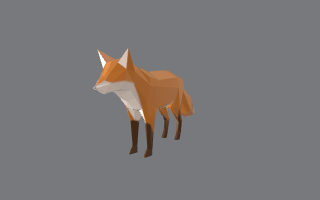
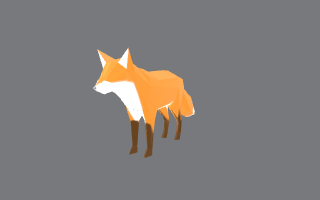
feat(shader): update built-in defaults and order

Changed region(s): [[0.2812, 0.24, 0.625, 0.78]]

diff --git a/src/domain/builtins.ts b/src/domain/builtins.ts
@@ -40,8 +40,8 @@ const builtins: ShaderDefinition[] = [
     parameters: [
       { id: 'color', type: 'color', uniformName: 'uColor', label: 'Color', defaultValue: '#7aa2f7' },
       { id: 'ambient-color', type: 'color', uniformName: 'uAmbientColor', label: 'Ambient color', defaultValue: '#ffffff' },
-      { id: 'ambient-intensity', type: 'float', uniformName: 'uAmbientIntensity', label: 'Ambient intensity', min: 0, max: 2, step: 0.01, defaultValue: 0 },
-    ], materialInputProfile: 'gltf-surface', parameterValues: { color: '#7aa2f7', 'ambient-color': '#ffffff', 'ambient-intensity': 0 }, schemaVersion: 2,
+      { id: 'ambient-intensity', type: 'float', uniformName: 'uAmbientIntensity', label: 'Ambient intensity', min: 0, max: 2, step: 0.01, defaultValue: 1 },
+    ], materialInputProfile: 'gltf-surface', parameterValues: { color: '#7aa2f7', 'ambient-color': '#ffffff', 'ambient-intensity': 1 }, schemaVersion: 2,
   },
   {
     id: 'builtin-uv-grid', name: 'UV Grid', origin: 'builtin', portrait: { kind: 'bundled', url: uvGridPortrait },
@@ -80,8 +80,8 @@ const builtins: ShaderDefinition[] = [
       { id: 'shadow-color', type: 'color', uniformName: 'uShadowColor', label: 'Shadow tint', defaultValue: '#18223b' },
       { id: 'light-color', type: 'color', uniformName: 'uLightColor', label: 'Light tint', defaultValue: '#f7c75f' },
       { id: 'ambient-color', type: 'color', uniformName: 'uAmbientColor', label: 'Ambient color', defaultValue: '#ffffff' },
-      { id: 'ambient-intensity', type: 'float', uniformName: 'uAmbientIntensity', label: 'Ambient intensity', min: 0, max: 2, step: 0.01, defaultValue: 0 },
-    ], materialInputProfile: 'gltf-surface', parameterValues: { bands: 3, 'shadow-color': '#18223b', 'light-color': '#f7c75f', 'ambient-color': '#ffffff', 'ambient-intensity': 0 }, schemaVersion: 2,
+      { id: 'ambient-intensity', type: 'float', uniformName: 'uAmbientIntensity', label: 'Ambient intensity', min: 0, max: 2, step: 0.01, defaultValue: 1 },
+    ], materialInputProfile: 'gltf-surface', parameterValues: { bands: 3, 'shadow-color': '#18223b', 'light-color': '#f7c75f', 'ambient-color': '#ffffff', 'ambient-intensity': 1 }, schemaVersion: 2,
   },
   {
     id: 'builtin-pbr', name: 'PBR', origin: 'builtin', portrait: { kind: 'bundled', url: pbrPortrait },
@@ -96,7 +96,7 @@ const builtins: ShaderDefinition[] = [
       { id: 'use-normal-map', type: 'boolean', uniformName: 'uUseNormalMap', label: 'Use normal map', defaultValue: true },
       { id: 'environment-contribution', type: 'float', uniformName: 'uEnvironmentContribution', label: 'Environment contribution', min: 0, max: 4, step: 0.01, defaultValue: 1 },
       { id: 'ambient-color', type: 'color', uniformName: 'uAmbientColor', label: 'Ambient color', defaultValue: '#ffffff' },
-      { id: 'ambient-intensity', type: 'float', uniformName: 'uAmbientIntensity', label: 'Ambient intensity', min: 0, max: 2, step: 0.01, defaultValue: 0 },
+      { id: 'ambient-intensity', type: 'float', uniformName: 'uAmbientIntensity', label: 'Ambient intensity', min: 0, max: 2, step: 0.01, defaultValue: 1 },
     ],
     materialInputProfile: 'gltf-pbr',
     parameterValues: {
@@ -109,7 +109,7 @@ const builtins: ShaderDefinition[] = [
       'use-normal-map': true,
       'environment-contribution': 1,
       'ambient-color': '#ffffff',
-      'ambient-intensity': 0,
+      'ambient-intensity': 1,
     },
     schemaVersion: 2,
   },
@@ -139,4 +139,21 @@ const builtins: ShaderDefinition[] = [
   },
 ]
 
-export const BUILTIN_SHADERS: readonly ShaderDefinition[] = Object.freeze(builtins.map(freezeBuiltin))
+const BUILTIN_SHADER_ORDER = [
+  'builtin-pbr',
+  'builtin-toon',
+  'builtin-normal',
+  'builtin-unlit-color',
+  'builtin-uv-grid',
+  'builtin-fresnel',
+  'builtin-procedural-matcap',
+  'builtin-rim-light',
+] as const
+
+const builtinsById = new Map(builtins.map((shader) => [shader.id, shader]))
+
+export const BUILTIN_SHADERS: readonly ShaderDefinition[] = Object.freeze(BUILTIN_SHADER_ORDER.map((id) => {
+  const shader = builtinsById.get(id)
+  if (shader === undefined) throw new Error(`Missing built-in shader: ${id}`)
+  return freezeBuiltin(shader)
+}))

diff --git a/src/ui/Workspace.integration.test.tsx b/src/ui/Workspace.integration.test.tsx
@@ -258,7 +258,8 @@ describe('shader workspace acceptance', () => {
     const firstRender = renderWorkspace({ repository, viewer, urls: exportUrls, download })
     await waitForBuiltinControls()
 
-    expect(within(libraryPanel()).getByRole('button', { name: 'Normal' })).toHaveAttribute('aria-current', 'true')
+    expect(within(libraryPanel()).getByRole('button', { name: 'PBR' })).toHaveAttribute('aria-current', 'true')
+    await user.click(within(libraryPanel()).getByRole('button', { name: 'Normal' }))
     await user.click(within(libraryPanel()).getByRole('button', { name: 'Duplicate shader' }))
     const localCard = await within(libraryPanel()).findByRole('button', { name: 'Normal copy' })
     expect(localCard).toHaveAttribute('aria-current', 'true')
@@ -467,7 +468,7 @@ describe('shader workspace acceptance', () => {
     renderWorkspace({ repository, viewer })
     await waitForBuiltinControls()
     await user.click(within(libraryPanel()).getByRole('button', { name: 'Duplicate shader' }))
-    await within(libraryPanel()).findByRole('button', { name: 'Normal copy' })
+    await within(libraryPanel()).findByRole('button', { name: 'PBR copy' })
     await waitFor(() => expect(viewer.compileShader).toHaveBeenLastCalledWith(expect.objectContaining({ id: 'local-1' })))
     await waitForValidCompile()
 
@@ -488,7 +489,7 @@ describe('shader workspace acceptance', () => {
     await user.click(screen.getByRole('button', { name: 'Dismiss workspace notices' }))
     repository.failSave = false
     await user.click(within(editorPanel()).getByRole('button', { name: 'Save shader' }))
-    expect(await screen.findByText('Saved Normal copy retry')).toBeVisible()
+    expect(await screen.findByText('Saved PBR copy retry')).toBeVisible()
     await user.click(screen.getByRole('button', { name: 'Dismiss workspace notices' }))
 
     viewer.failModel = true
@@ -509,7 +510,7 @@ describe('shader workspace acceptance', () => {
     await user.click(screen.getByRole('button', { name: 'Dismiss workspace notices' }))
     viewer.failCapture = false
     await user.click(within(editorPanel()).getByRole('button', { name: 'Capture portrait' }))
-    expect(await screen.findByText('Captured portrait for Normal copy retry')).toBeVisible()
+    expect(await screen.findByText('Captured portrait for PBR copy retry')).toBeVisible()
   }, 10_000)
 
   it('updates built-in controls without compilation and preserves current Toon and PBR values when duplicated', async () => {
@@ -679,12 +680,12 @@ describe('shader workspace acceptance', () => {
 
     await user.click(library)
     await user.click(within(screen.getByRole('tabpanel', { name: 'Library' })).getByRole('button', { name: 'Duplicate shader' }))
-    await screen.findByRole('button', { name: 'Normal copy' })
+    await screen.findByRole('button', { name: 'PBR copy' })
     const deleteButton = within(screen.getByRole('tabpanel', { name: 'Library' })).getByRole('button', { name: 'Delete shader' })
     await user.click(deleteButton)
 
     const workspace = container.querySelector('.workspace-root')
-    const dialog = screen.getByRole('alertdialog', { name: 'Delete Normal copy?' })
+    const dialog = screen.getByRole('alertdialog', { name: 'Delete PBR copy?' })
     expect(workspace).toHaveProperty('inert', true)
     expect(workspace).toHaveAttribute('aria-hidden', 'true')
     expect(workspace).not.toContainElement(dialog)

diff --git a/src/domain/builtins.test.ts b/src/domain/builtins.test.ts
@@ -20,6 +20,19 @@ describe('BUILTIN_ENVIRONMENTS', () => {
 })
 
 describe('BUILTIN_SHADERS', () => {
+  it('presents the primary material shaders first in the requested library order', () => {
+    expect(BUILTIN_SHADERS.map(({ id }) => id)).toEqual([
+      'builtin-pbr',
+      'builtin-toon',
+      'builtin-normal',
+      'builtin-unlit-color',
+      'builtin-uv-grid',
+      'builtin-fresnel',
+      'builtin-procedural-matcap',
+      'builtin-rim-light',
+    ])
+  })
+
   it('ships eight immutable valid shader definitions with bundled portraits', () => {
     expect(BUILTIN_SHADERS).toHaveLength(8)
     expect(Object.isFrozen(BUILTIN_SHADERS)).toBe(true)
@@ -75,7 +88,7 @@ describe('BUILTIN_SHADERS', () => {
         { id: 'use-normal-map', uniformName: 'uUseNormalMap', type: 'boolean', defaultValue: true },
         { id: 'environment-contribution', uniformName: 'uEnvironmentContribution', type: 'float', min: 0, max: 4, step: 0.01, defaultValue: 1 },
         { id: 'ambient-color', uniformName: 'uAmbientColor', type: 'color', defaultValue: '#ffffff' },
-        { id: 'ambient-intensity', uniformName: 'uAmbientIntensity', type: 'float', min: 0, max: 2, step: 0.01, defaultValue: 0 },
+        { id: 'ambient-intensity', uniformName: 'uAmbientIntensity', type: 'float', min: 0, max: 2, step: 0.01, defaultValue: 1 },
       ],
       parameterValues: {
         'base-color-tint': '#ffffff',
@@ -87,7 +100,7 @@ describe('BUILTIN_SHADERS', () => {
         'use-normal-map': true,
         'environment-contribution': 1,
         'ambient-color': '#ffffff',
-        'ambient-intensity': 0,
+        'ambient-intensity': 1,
       },
     })
     expect(validateParameterDefinitions(pbr?.parameters ?? [])).toEqual([])
@@ -104,9 +117,9 @@ describe('BUILTIN_SHADERS', () => {
       parameters: [
         { id: 'color', uniformName: 'uColor', type: 'color', defaultValue: '#7aa2f7' },
         { id: 'ambient-color', uniformName: 'uAmbientColor', type: 'color', defaultValue: '#ffffff' },
-        { id: 'ambient-intensity', uniformName: 'uAmbientIntensity', type: 'float', min: 0, max: 2, step: 0.01, defaultValue: 0 },
+        { id: 'ambient-intensity', uniformName: 'uAmbientIntensity', type: 'float', min: 0, max: 2, step: 0.01, defaultValue: 1 },
       ],
-      parameterValues: { color: '#7aa2f7', 'ambient-color': '#ffffff', 'ambient-intensity': 0 },
+      parameterValues: { color: '#7aa2f7', 'ambient-color': '#ffffff', 'ambient-intensity': 1 },
     })
     expect(color?.fragmentSource).toContain('vec4 albedo = sampleGltfBaseColor();')
     expect(color?.fragmentSource).toContain(
@@ -134,5 +147,7 @@ describe('BUILTIN_SHADERS', () => {
     expect(toon?.fragmentSource).toContain(
       'if (uGltfAlphaCutoff > 0.0 && albedo.a < uGltfAlphaCutoff) discard;',
     )
+    expect(toon?.parameters.find(({ id }) => id === 'ambient-intensity')?.defaultValue).toBe(1)
+    expect(toon?.parameterValues['ambient-intensity']).toBe(1)
   })
 })

diff --git a/src/application/WorkspaceController.test.tsx b/src/application/WorkspaceController.test.tsx
@@ -654,9 +654,9 @@ describe('WorkspaceProvider', () => {
     act(() => workspace.current().commands.editName('Blocked'))
     await act(async () => workspace.current().commands.duplicateShader())
 
-    expect(workspace.current().state.builtins[0].name).toBe('Normal')
+    expect(workspace.current().state.builtins[0].name).toBe('PBR')
     expect(repository.save).toHaveBeenCalledWith(expect.objectContaining({
-      id: 'fresh-id', origin: 'local', name: 'Normal copy', createdAt: 100, updatedAt: 100,
+      id: 'fresh-id', origin: 'local', name: 'PBR copy', createdAt: 100, updatedAt: 100,
     }))
     expect(workspace.current().state.draft.portrait).toBeUndefined()
     expect(workspace.current().state.selectedId).toBe('fresh-id')

diff --git a/src/ui/library/ShaderLibrary.test.tsx b/src/ui/library/ShaderLibrary.test.tsx
@@ -98,7 +98,7 @@ describe('ShaderLibrary', () => {
     renderLibrary()
 
     expect(screen.getByRole('heading', { name: 'Built-in' })).toBeVisible()
-    expect(screen.getByRole('button', { name: 'Normal' })).toHaveAttribute('aria-current', 'true')
+    expect(screen.getByRole('button', { name: 'PBR' })).toHaveAttribute('aria-current', 'true')
     expect(screen.getByRole('img', { name: 'Normal preview' })).toBeVisible()
     expect(await screen.findByText(/create a shader or duplicate a built-in/i)).toBeVisible()
     expect(screen.getByRole('button', { name: 'Delete shader' })).toBeDisabled()
